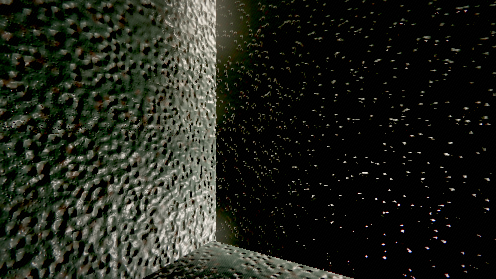
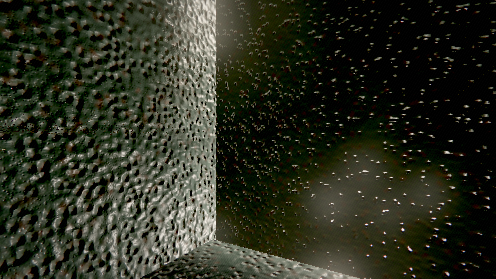
Rank the light budget by importance, not distance; light the escape routes
THE BUDGET WAS RANKED WRONG. `LightRig` can only drive 6/10/14 real lights at
once by tier, and it kept the N NEAREST. That sounds obviously right and is not:
irradiance falls as 1/d^2, but rated output spans 9 to 340 candela across
FIXTURE_TYPES — a factor of thirty-eight — so the output term is much the
stronger of the two. A 9 cd emergency bulkhead 2 m away outranked a 340 cd high
bay 5 m away, and the Plant lost its key light to a green safety lamp.

Fixtures now rank on `_importance`: rated candela x their own intensityScale x
their circuit's supply level, over (1 + d^2) — the estimated irradiance delivered
at the camera. Measured, not assumed: `lightreach --budget 10` sums the
irradiance the chosen ten deliver under both rankings at every walkable sample
point. Importance can never lose (it is choosing the top N of the very quantity
being summed), so the numbers are the margin that was being left on the table:

  plant  +13.7% mean, worst point x1.66     stack  +3.5%     service +1.2%
  duct   +1.1%    residence +0.4%   cistern +0.1%   intake, safe  0.0%

The Plant is where distance and output disagree, which is exactly where the
zone's own comment says the composition lives. The shadow-caster hysteresis band
is expressed in importance too — reading a distance off `live[maxShadows]` after
an importance sort picks an arbitrary fixture and the band stops meaning anything.

THE ESCAPE ROUTES WERE NOT LIT. Board C carries eight ways and lets four be live,
[…]

diff --git a/src/render/Lighting.js b/src/render/Lighting.js
@@ -113,6 +113,8 @@ export class Fixture {
     this._dead = health === HEALTH.DEAD;
     this._shadowWanted = false;
     this.distToCam = 1e9;
+    /** Estimated irradiance at the camera; the light budget ranks on this. */
+    this._importance = 0;
     this.audioNode = null;
   }
 
@@ -453,8 +455,14 @@ export class LightRig {
       for (const f of this.fixtures) {
         const p = f.group.position;
         f.distToCam = Math.hypot(p.x - camPos.x, p.y - camPos.y, p.z - camPos.z);
+        // Estimated irradiance at the camera. `def.intensity` is physical candela
+        // and spans 6 (an emergency bulkhead) to 240 (a high bay), so this term
+        // dominates distance and is the whole reason for ranking on it.
+        const rated = (f.def?.intensity ?? 20) * (f.intensityScale ?? 1);
+        const supply = this.circuits.get(f.circuit)?.target ?? 1;
+        f._importance = (rated * supply) / (1 + f.distToCam * f.distToCam);
       }
-      // Rank by distance among fixtures that are *supposed* to be on.
+      // Rank by importance among fixtures that are *supposed* to be on.
       //
       // This deliberately tests the circuit's TARGET and the fixture's health,
       // not its instantaneous `level`. Level is a transient: a freshly built
@@ -469,20 +477,35 @@ export class LightRig {
           const c = this.circuits.get(f.circuit);
           return c ? c.target > 0.05 : true;
         })
-        .sort((a, b) => a.distToCam - b.distToCam);
+        .sort((a, b) => b._importance - a._importance);
 
-      // Distance-ranked active set. Without this the "keep the first N" loop
-      // below walks the fixture array in creation order, so which lights
-      // survive the budget depends on the order the zone happened to emit them
-      // rather than on where the player is standing.
+      // IMPORTANCE-RANKED active set, not distance-ranked.
+      //
+      // Ranking by distance alone means the nearest lamp always wins, whatever it
+      // is worth. A 6 cd emergency bulkhead 2 m away displaced a 240 cd high bay
+      // 5 m away, and at the shipping medium tier the budget is ten fixtures, so a
+      // handful of dim wall-washes and emergency lamps standing near the player
+      // could push most of the real lighting out of the frame. Irradiance falls as
+      // 1/d^2 and rated output spans a factor of forty across FIXTURE_TYPES, so
+      // distance is the weaker of the two terms by a long way.
+      //
+      // `_importance` is the estimated irradiance the fixture delivers AT THE
+      // CAMERA: rated candela x its own scale x its circuit's level, over
+      // (1 + d^2). It is computed in the loop above where the distance already is.
+      // This is what makes it safe to put emergency lighting on the escape routes
+      // — the lamps that keep a blacked-out zone navigable no longer cost the lit
+      // zones their key light.
       this._activeSet = new Set(live.slice(0, this.maxActiveLights));
 
       const want = new Set(live.slice(0, this.maxShadows));
-      // Hysteresis: keep an existing caster if it is still within 1.35x the
-      // cut-off distance, so shadows do not pop while the player sways.
-      const cutoff = live[this.maxShadows]?.distToCam ?? Infinity;
+      // Hysteresis: keep an existing caster while it is still worth more than a
+      // little under the cut-off, so shadows do not pop while the player sways.
+      // The band is expressed in IMPORTANCE now that the ranking is: reading a
+      // distance off `live[maxShadows]` after an importance sort picks an
+      // arbitrary fixture's distance and the hysteresis stops meaning anything.
+      const cutoff = live[this.maxShadows]?._importance ?? 0;
       for (const f of this._shadowSet) {
-        if (!want.has(f) && f.level > 0.05 && f.distToCam < cutoff * 1.35 && want.size < this.maxShadows + 1) {
+        if (!want.has(f) && f.level > 0.05 && f._importance > cutoff * 0.55 && want.size < this.maxShadows + 1) {
           want.add(f);
         }
       }

diff --git a/src/world/zones/IntakeZone.js b/src/world/zones/IntakeZone.js
@@ -480,6 +480,40 @@ export function buildIntake(ctx, { seed = 20240607 } = {}) {
     emergencyLight(b, rigW(b), -halfW + 0.14, 2.42, lz - 1.2, { yaw: Math.PI / 2, seed: 907 });
   }
 
+  // EMERGENCY LIGHTING ON THE ESCAPE ROUTES.
+  //
+  // One emergency bulkhead, in the entrance bay, for a 63 x 63 m floor plate. A
+  // blackout measurement (`lightreach --blackout`, which pretends every switchable
+  // way at Distribution Board C is tripped) put the mean distance to the nearest
+  // burning lamp at 44 m and the worst at 83 m: the player tripping the Intake way
+  // from anywhere on the plate was left with a flashlight and nothing to walk
+  // toward. A real floor plate has these every 10-15 m along the escape route, and
+  // the two spines ARE the escape route.
+  //
+  // Adding them is only safe because the light budget now ranks by importance
+  // rather than distance (see LightRig.update): a 9 cd emergency lamp two metres
+  // away no longer displaces a 31 cd troffer four metres away, which under the old
+  // distance ranking is exactly what a dozen of these would have done.
+  {
+    const zSpine = cellPos(plan.spineRow, 0)[1];
+    const zSpine2 = cellPos(plan.spineRow2, 0)[1];
+    for (const [ex, ez, eyaw] of [
+      [cellPos(0, 3)[0], zSpine, 0], [cellPos(0, 7)[0], zSpine, 0], [cellPos(0, 11)[0], zSpine, 0],
+      [cellPos(0, 4)[0], zSpine2, Math.PI], [cellPos(0, 9)[0], zSpine2, Math.PI],
+      [halfW - 0.14, zSpine, -Math.PI / 2],
+    ]) {
+      const b = builderFor(Math.max(0, Math.min(INTAKE.rows - 1,
+        Math.round(ez / cell + rows / 2 - 0.5))), Math.max(0, Math.min(cols - 1,
+        Math.round(ex / cell + cols / 2 - 0.5))));
+      emergencyLight(b, rigW(b), ex, ceiling - 0.30, ez, { yaw: eyaw, seed: 910 + ex, circuit: 'emergency' });
+    }
+    // The far corner, where the ceiling has come down. Something has to be
+    // visible in there or it reads as a hole rather than a room.
+    const [fx, fz] = cellPos(1, cols - 2);
+    const bf = builderFor(1, cols - 2);
+    emergencyLight(bf, rigW(bf), fx, ceiling - 0.42, fz, { yaw: Math.PI, seed: 919, circuit: 'emergency' });
+  }
+
   // =========================================================================
   // ROOM INTERIORS
   // =========================================================================

diff --git a/src/Game.js b/src/Game.js
@@ -125,6 +125,36 @@ export class Game {
     };
 
     // ---- world ------------------------------------------------------------
+    // SHADER PRE-WARM PER ZONE.
+    //
+    // Boot compiles the start zone's programs (see the end of this method), and
+    // nothing compiled the other seven. Every zone introduces materials the
+    // renderer has not seen — the Cistern's water, the Stack's spandrel glow, the
+    // Plant's high-bay cones — so the FIRST FRAME after a transition compiled
+    // them all, and a continuous session recorded that as an 11-second frame with
+    // a p99 of 7 ms either side of it. On a real GPU it is a hitch rather than a
+    // stall, but it is the same hitch, and it lands on the one frame the player
+    // is looking at a room they have never seen.
+    //
+    // Compiling at BUILD time moves it to where the build already is: either the
+    // loading screen, or `World._preload`, which raises a neighbour a portal
+    // leads to while the player is still walking toward it. The zone's own root
+    // is the target and the scene supplies the lights, so this compiles the new
+    // material set and not the whole building again.
+    this.bus.on('zone:build', (e) => {
+      const z = this.world?.zones?.[e?.zone];
+      if (!z?.root || !this.engine?.renderer) return;
+      const t0 = performance.now();
+      try {
+        this.engine.renderer.compile(z.root, this.engine.camera, this.engine.scene);
+      } catch (err) {
+        console.warn('[game] shader pre-warm failed for', e?.zone, err);
+        return;
+      }
+      const ms = performance.now() - t0;
+      if (ms > 40) console.info(`[game] pre-warmed ${e.zone} shaders in ${ms.toFixed(0)} ms`);
+    });
+
     const worldMod = await optional('world', 'world/World.js');
     if (worldMod?.createWorld) {
       // A half-finished world must not take the whole build down with it.

diff --git a/src/world/zones/StackZone.js b/src/world/zones/StackZone.js
@@ -682,6 +682,29 @@ export function buildStack(ctx, opts = {}) {
       }
     }
 
+    // EMERGENCY LIGHTING. The Stack had none — the only zone in the building
+    // without it, and the only one that is a 47 m vertical drop with a bay of
+    // handrail missing. Its lamps are on the 'stack' circuit, which starts dead at
+    // Distribution Board C and which the player has every reason to trip later to
+    // light somewhere else: doing that from inside this zone put them in total
+    // darkness on a deck ring above a shaft. A vertical circulation core with no
+    // emergency lighting would also fail the survey the zone contains a note
+    // about. Four, one per face, on the always-powered circuit.
+    for (const [ex, ez, eyaw] of [
+      [-OUTER + 0.14, 0, Math.PI / 2],
+      [OUTER - 0.14, -2.0, -Math.PI / 2],
+      [-1.0, -OUTER + 0.14, 0],
+      [1.0, OUTER - 0.14, Math.PI],
+    ]) {
+      emergencyLight(b, rigFor(b), ex, 2.24, ez, { yaw: eyaw, seed: 320 + ex, circuit: 'emergency' });
+    }
+    // And one four levels down, on the far side of the well. It is the only light
+    // in the shaft that never goes out, so it is the thing the eye finds when the
+    // player looks over the edge into the dark — and it says the building is still,
+    // in some minimal sense, maintained.
+    emergencyLight(bFar, rigFor(bFar), -WALL_OUT - 0.10, -4 * LEVEL + 2.24, 1.2,
+      { yaw: -Math.PI / 2, seed: 329, circuit: 'emergency' });
+
     if (D) {
       D.roomPlate(b, -2.0, 2.05, -OUTER + 0.10, 0, roomNumber('K', 24), 'STACK');
       // Edge marking along the base of the well wall, on the deck side of it.

diff --git a/src/world/zones/PlantZone.js b/src/world/zones/PlantZone.js
@@ -353,6 +353,21 @@ export function buildPlant(ctx, opts = {}) {
   bulkhead(bEast, rigFor(bEast), HX1 - 0.3, FLOOR + 3.4, 2.4, { yaw: -Math.PI / 2, circuit: 'plant', health: 'good', seed: 61 });
   emergencyLight(bDeck, rigFor(bDeck), HX0 + 0.30, G1 + 2.5, -2.0, { yaw: -Math.PI / 2, seed: 62 });
   emergencyLight(bEast, rigFor(bEast), 12.0, FLOOR + 2.6, HZ0 + 0.4, { yaw: 0, seed: 63 });
+  // The hall floor is 35 x 23 m and had two emergency lamps, both up on the deck.
+  // With way 6 tripped — which a player will do, because four ways is not many —
+  // the worst point on that floor was 24 m from anything burning, in a room with
+  // open drain channels and a 6.7 m drop off the gantry. Four more at working
+  // height around the perimeter, and one on the walkway's far end.
+  for (const [ex, ey, ez, eyaw] of [
+    [HX0 + 0.14, FLOOR + 2.6, -6.0, Math.PI / 2],
+    [HX0 + 0.14, FLOOR + 2.6, 6.0, Math.PI / 2],
+    [HX1 - 0.14, FLOOR + 2.6, 6.4, -Math.PI / 2],
+    [-2.0, FLOOR + 2.6, HZ1 - 0.14, Math.PI],
+    [12.0, G1 + 2.5, 9.9, Math.PI],
+  ]) {
+    const b = ex < 0 ? bWest : bEast;
+    emergencyLight(b, rigFor(b), ex, ey, ez, { yaw: eyaw, seed: 64 + ex, circuit: 'emergency' });
+  }
 
   // =========================================================================
   // 7. dressing and evidence

diff --git a/src/systems/Interactables.js b/src/systems/Interactables.js
@@ -2032,7 +2032,7 @@ export function hidingPlace(ctx, {
     state: () => ({ ...state }),
   };
 
-  interactor?.add({
+  const hideItem = interactor?.add({
     id: `${id}_enter`, object: root, kind: 'hide',
     verb: 'Get in', label: kind, range: 2.0,
     refusal: () => {
@@ -2040,7 +2040,19 @@ export function hidingPlace(ctx, {
       if (ctx.inventory?.handsFull) return 'Not with a core in your arms.';
       return null;
     },
-    onUse: () => (state.inside ? api.exit() : api.enter()),
+    onUse: () => {
+      const r = state.inside ? api.exit() : api.enter();
+      // The prompt is the ONLY thing that tells the player how to get out again:
+      // inside a locker `controlEnabled` is false, so WASD does nothing and the
+      // one key that works is the one whose label used to read "Get in". A
+      // continuous session had the bot climb in at 1:53 and still be in there
+      // nine minutes later with the game running perfectly happily.
+      if (hideItem) {
+        hideItem.verb = state.inside ? 'Get out' : 'Get in';
+        hideItem.label = state.inside ? `the ${kind}` : kind;
+      }
+      return r;
+    },
   });
 
   return {

diff --git a/src/world/zones/ServiceZone.js b/src/world/zones/ServiceZone.js
@@ -789,6 +789,21 @@ export function buildService(ctx, opts = {}) {
     Props.blanketNest(b, x1 - 1.1, STAIR_BOTTOM, 9.3, { seed: 353, yaw: 0.5, r: 0.8 });
   }
 
+  // EMERGENCY LIGHTING ALONG THE SPINE.
+  //
+  // 57 m of corridor had three, all of them in rooms off it, so a blackout
+  // measurement put the worst walkable point 26 m from the nearest burning lamp.
+  // The spine is the escape route for the entire building — every other zone
+  // connects through it — so it gets the spacing a real one would have. Cheap now
+  // that the light budget ranks by importance rather than distance.
+  for (const [ex, ez, eyaw] of [
+    [-26.0, -HW + 0.12, 0], [-18.0, HW - 0.12, Math.PI], [-8.0, -HW + 0.12, 0],
+    [2.0, HW - 0.12, Math.PI], [12.0, -HW + 0.12, 0], [21.0, HW - 0.12, Math.PI],
+  ]) {
+    const b = byX(ex);
+    emergencyLight(b, rigFor(b), ex, CEIL - 0.32, ez, { yaw: eyaw, seed: 400 + ex, circuit: 'emergency' });
+  }
+
   // =========================================================================
   // 10. gameplay — Distribution Board C
   //

diff --git a/src/world/zones/CisternZone.js b/src/world/zones/CisternZone.js
@@ -338,6 +338,19 @@ export function buildCistern(ctx, opts = {}) {
     cagedLadder(b, 19.9, 1.62, 5.8, 3.2, { yaw: -Math.PI / 2, cage: true, key: 'rust' });
   }
 
+  // Emergency lighting down the tunnel and in the chamber. With the Cistern way
+  // tripped, the blackout measurement put the worst walkable point 47 m from the
+  // only burning lamp — in 420 mm of water, in the dark, with a thing in it that
+  // hunts by sound. Three more, on the always-powered circuit, along the route.
+  for (const [ex, ey, ez, eyaw] of [
+    [-13.0, 2.20, R_TUNNEL[1] + 0.12, 0],
+    [-1.0, 2.20, R_TUNNEL[3] - 0.12, Math.PI],
+    [12.4, 2.40, R_CHAMBER[1] + 0.12, 0],
+  ]) {
+    const b = ex < -12 ? bStair : ex < 10 ? bTunnel : bChamber;
+    emergencyLight(b, rigFor(b), ex, ey, ez, { yaw: eyaw, seed: 36 + ex, circuit: 'emergency' });
+  }
+
   // =========================================================================
   // 5. silt, tide lines, debris
   // =========================================================================

diff --git a/src/world/zones/ResidenceZone.js b/src/world/zones/ResidenceZone.js
@@ -279,6 +279,15 @@ export function buildResidence(ctx, opts = {}) {
     if (fs % 2 === 0) smokeDetector(b, x + 0.7, CEIL - 0.014, 0.5, 'plasticWhite');
   }
   emergencyLight(bEast, rigFor(bEast), X1 - 0.14, 2.28, 0.6, { yaw: Math.PI / 2, seed: 90 });
+  // A 37 m corridor with one emergency lamp at the far end measured a 41 m worst
+  // case with the Residence way tripped. Three more, on the escape route, spaced
+  // as a real landing would be. Safe to add now that the light budget ranks by
+  // importance rather than by distance.
+  for (const [ex, ez, eyaw] of [
+    [X0 + 1.0, -HW + 0.05, 0], [-6.4, HW - 0.05, Math.PI], [8.2, -HW + 0.05, 0],
+  ]) {
+    emergencyLight(byX(ex), rigFor(byX(ex)), ex, 2.30, ez, { yaw: eyaw, seed: 91 + ex, circuit: 'emergency' });
+  }
 
   // =========================================================================
   // 2. the end of the corridor — a mirror on the axis
